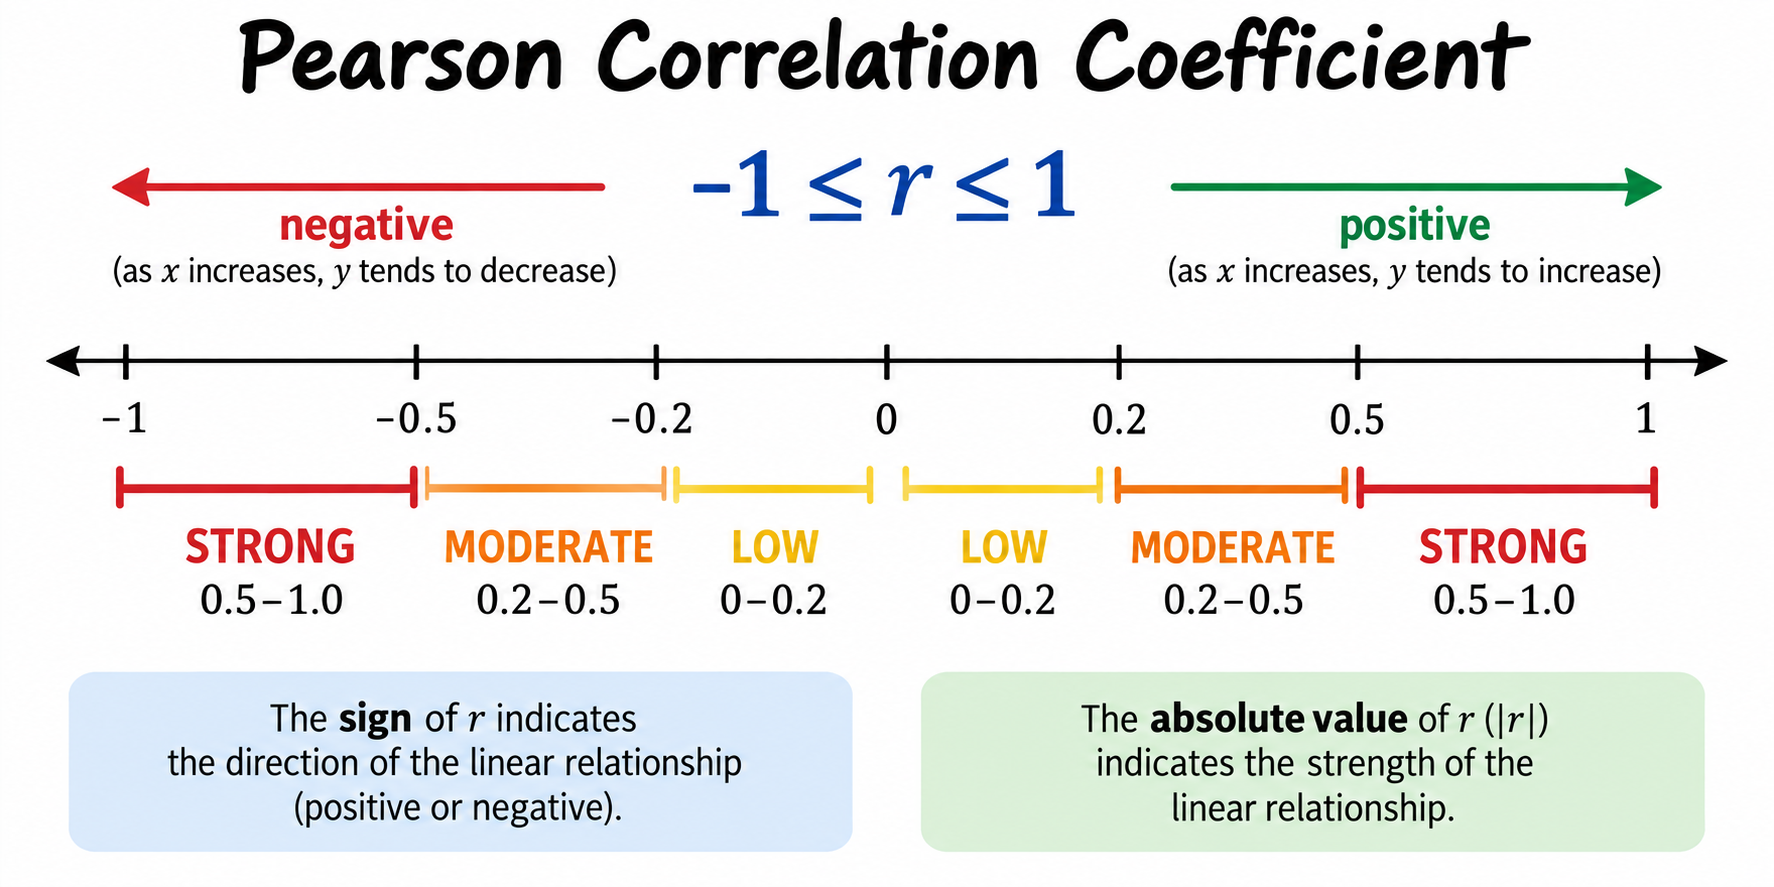
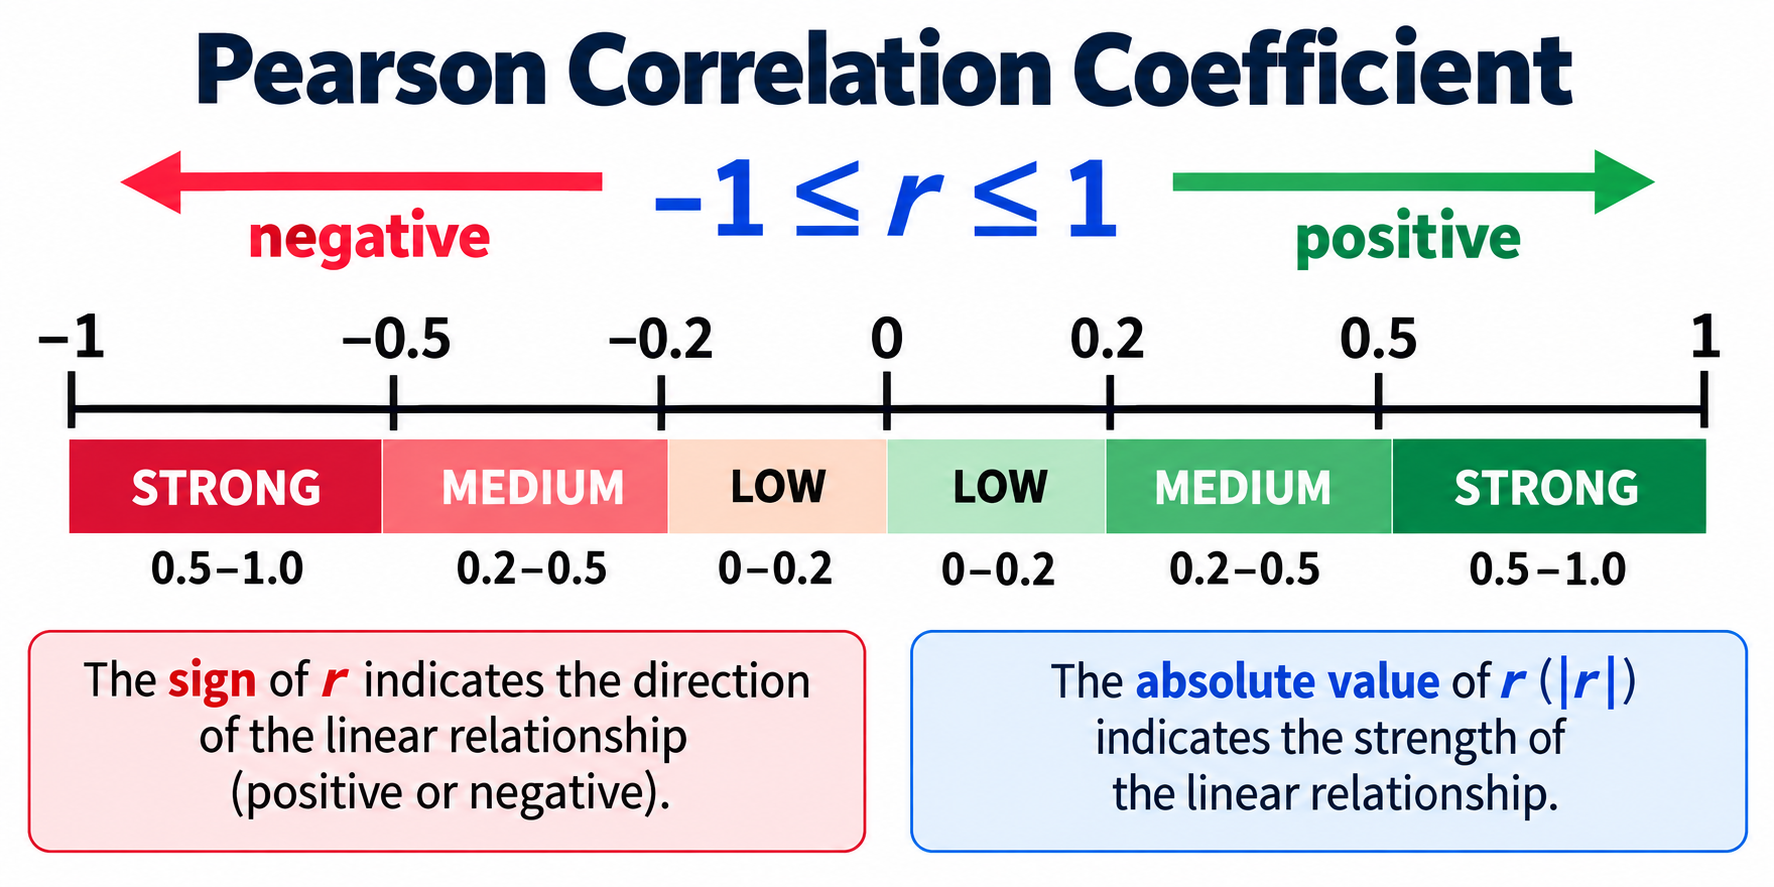
Repair correlation classification visuals

diff --git a/cohorts/2026/03-classification/images/imagegen-provenance-2026-09-08.md b/cohorts/2026/03-classification/images/imagegen-provenance-2026-09-08.md
@@ -25,10 +25,10 @@ Their retained crop is an audit reference, not a generation input.
[12 lines of base64/hex data omitted]
@@ -48,3 +48,33 @@ Their retained crop is an audit reference, not a generation input.
 - Every published target was inspected at native resolution and after a
   608px-wide resize. No target is an enlargement or sharpening derivative of
   the previous published PNG.
+
+## Focused correction: 2026-09-08
+
+Two assets were repaired after an independent audit found a terminology error
+and an incorrect chart scale.
+
+### `07-correlation-01-correlation-coefficient-imagegen-pilot.png`
+
+- The original JPG and retained crop above were the only imagegen inputs; the
+  previous published PNG was not supplied as an input.
+- Imagegen output: `exec-97148a95-9cf8-42f4-8be7-d169e31f1c23`.
+- The two middle-strength labels now read exactly `MEDIUM`; `MODERATE` does
+  not appear in the published image.
+- The final PNG is byte-identical to the recorded output hash and was checked
+  at native `1774x887` and simulated `608x304` lesson size.
+
+### `07-correlation-05-churn-rate-monthly-charges-clean.png`
+
+- The original JPG and retained crop remain unchanged and are retained as
+  source/reference evidence; the crop is not used as a generated image input.
+- Re-rendered deterministically from the exact lesson values: tenure `60%`,
+  `40%`, `17%`; monthly charges `8%`, `18%`, `32%`.
+- The y-axis is now explicitly scaled from `0%` to `60%`, with visible guides
+  and ticks at `20%`, `40%`, and `60%`; the 60% and 40% bars terminate exactly
+  on their corresponding guides.
+- Native render spec: `1400x820` canvas, baseline `y=650`, `60%` guide
+  `y=180`, `40%` guide `y=337`, `20%` guide `y=493`, rasterized from the
+  deterministic SVG with ImageMagick `convert`.
+- The final PNG was checked at native `1400x820` and simulated `608x356`
+  lesson size; no screenshot overlays or camera artifacts are present.
